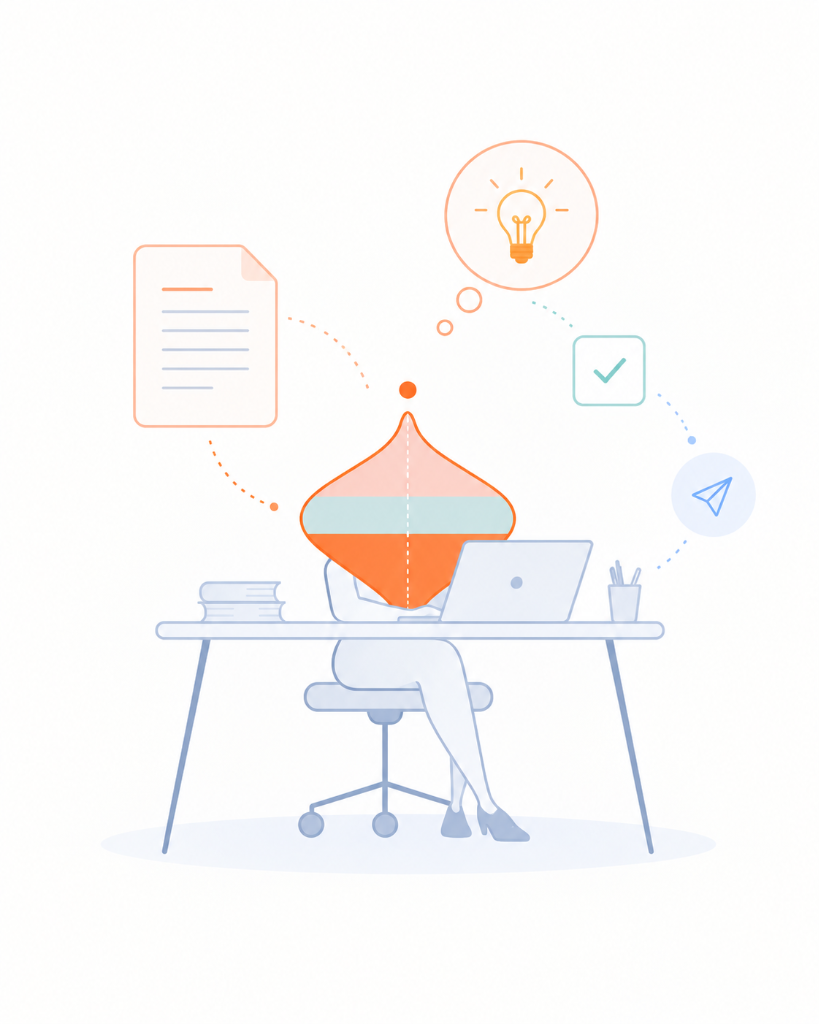
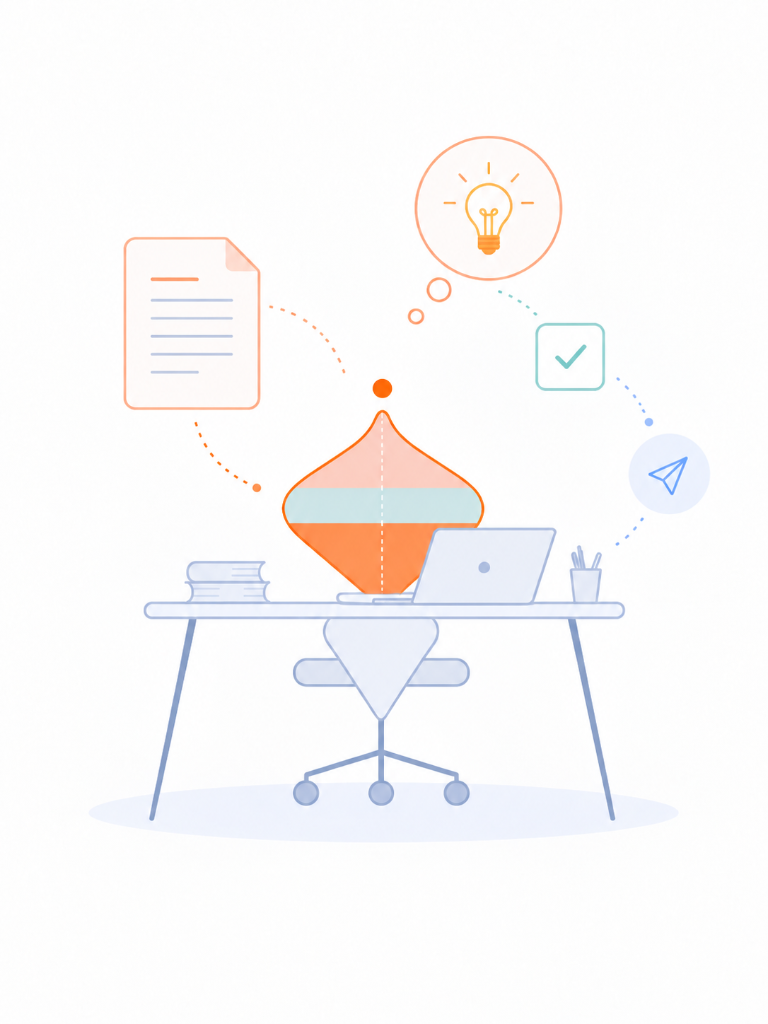
feat(assets): update illustrations for prompt use cases 2 and 3 on cover page

diff --git a/docs/cover.html b/docs/cover.html
@@ -724,7 +724,7 @@
           </div>
           <h3 class="use-case-context-name">Systematic Literature Review</h3>
           <div class="use-case-thumbnail-box">
-            <img src="assets/usecase_systematic.jpg" alt="Systematic Literature Review Illustration" class="use-case-thumbnail" />
+            <img src="assets/usecase_systematic.png" alt="Systematic Literature Review Illustration" class="use-case-thumbnail" />
           </div>
 
           <button class="use-case-expand-btn" aria-label="Explore Prompts for Context 02">

diff --git a/docs/index.html b/docs/index.html
@@ -724,7 +724,7 @@
           </div>
           <h3 class="use-case-context-name">Systematic Literature Review</h3>
           <div class="use-case-thumbnail-box">
-            <img src="assets/usecase_systematic.jpg" alt="Systematic Literature Review Illustration" class="use-case-thumbnail" />
+            <img src="assets/usecase_systematic.png" alt="Systematic Literature Review Illustration" class="use-case-thumbnail" />
           </div>
 
           <button class="use-case-expand-btn" aria-label="Explore Prompts for Context 02">

diff --git a/web/cover.html b/web/cover.html
@@ -724,7 +724,7 @@
           </div>
           <h3 class="use-case-context-name">Systematic Literature Review</h3>
           <div class="use-case-thumbnail-box">
-            <img src="assets/usecase_systematic.jpg" alt="Systematic Literature Review Illustration" class="use-case-thumbnail" />
+            <img src="assets/usecase_systematic.png" alt="Systematic Literature Review Illustration" class="use-case-thumbnail" />
           </div>
 
           <button class="use-case-expand-btn" aria-label="Explore Prompts for Context 02">

diff --git a/web/index.html b/web/index.html
@@ -724,7 +724,7 @@
           </div>
           <h3 class="use-case-context-name">Systematic Literature Review</h3>
           <div class="use-case-thumbnail-box">
-            <img src="assets/usecase_systematic.jpg" alt="Systematic Literature Review Illustration" class="use-case-thumbnail" />
+            <img src="assets/usecase_systematic.png" alt="Systematic Literature Review Illustration" class="use-case-thumbnail" />
           </div>
 
           <button class="use-case-expand-btn" aria-label="Explore Prompts for Context 02">

diff --git a/COVER_PAGE_COPY.md b/COVER_PAGE_COPY.md
@@ -290,7 +290,7 @@ Every literature review retains full audit provenance: exact search keywords, in
 
 - **Label (Kicker above heading)**: `Context 02`  
 - **Context Heading**: Systematic Literature Review  
-- **Thumbnail Image**: `assets/usecase_systematic.jpg`
+- **Thumbnail Image**: `assets/usecase_systematic.png`
 
 #### Prompt 1: Methodology Matrix Extraction
 
